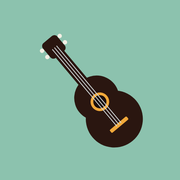
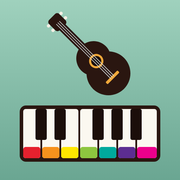
Neues App-Symbol fuer Smart Instruments (Gitarre ueber Klaviertasten in Boomwhacker-Farben)
Claude-Session: https://claude.ai/code/session_01Furwk85pLcBoXEJVo7MeAt

diff --git a/sw.js b/sw.js
@@ -2,7 +2,7 @@
    Die App (Seite, Schriften, Symbole) wird beim ersten Öffnen auf dem Gerät gespeichert.
    Seite: zuerst aus dem Netz (damit Updates sofort ankommen), ohne Netz aus dem Speicher.
    Alles andere: aus dem Speicher, sonst aus dem Netz. */
-const CACHE = 'saitenzug-v4';
+const CACHE = 'saitenzug-v5';
 const ASSETS = [
   './', 'manifest.webmanifest',
   'fonts/barlow-condensed-latin-500-normal.woff2', 'fonts/barlow-condensed-latin-600-normal.woff2',
